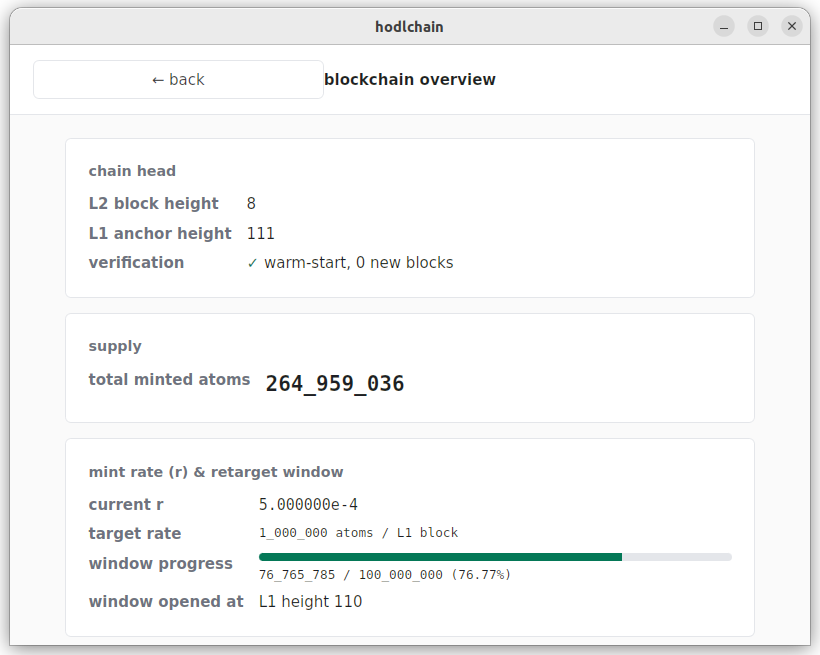
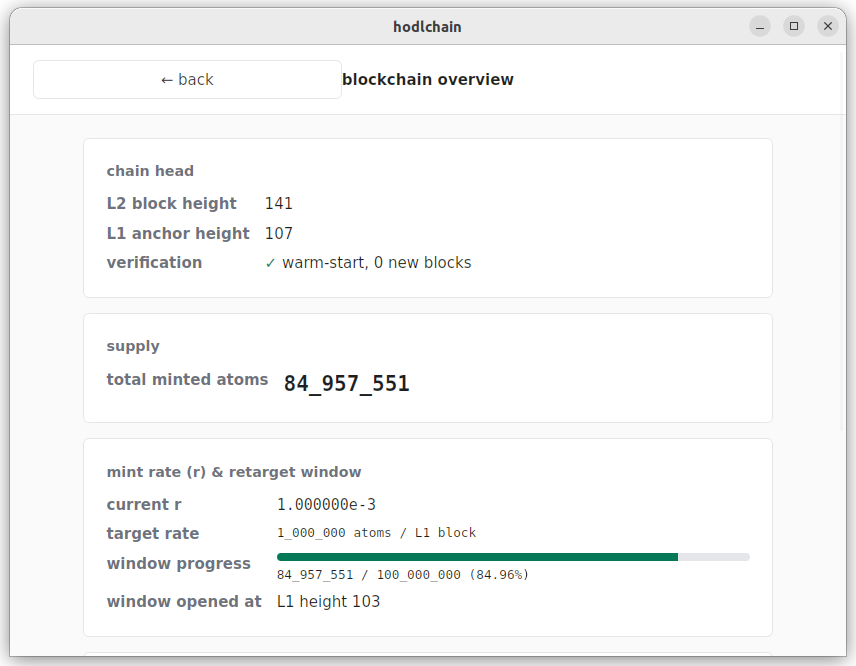
Minor README improvements. Also updated screenshots for new changes.

diff --git a/README.md b/README.md
@@ -1,7 +1,6 @@
 # hodlchain
 
-A proof-of-concept Layer 2 anchored to Bitcoin, exploring a fair-launch
-issuance primitive: users provably commit Bitcoin via a relative
+A proof-of-concept of what is laid out [here](https://github.com/AdamISZ/hodlchain-paper), exploring a fair-issuance primitive anchored to Bitcoin: users provably commit Bitcoin via a relative
 timelock (`OP_CHECKSEQUENCEVERIFY` and/or `OP_CHECKLOCKTIMEVERIFY`) on a taproot output for a chosen
 duration, and the L2 mints new tokens in return — bounded by the value
 locked and superlinear in lock duration, saturating at the locked value
@@ -9,18 +8,18 @@ as the duration approaches infinity. The BTC is recoverable; nothing
 is destroyed.
 
 > **Status**: research POC. Single-sequencer L2 on Bitcoin regtest /
-> signet. Not for mainnet, not audited, not stable. The protocol design
-> is the deliverable; everything in this repo runs but is shaped to
-> teach, not to ship.
+> signet. Not for mainnet, not audited, not stable.
 
 ![hodlchain desktop wallet — blockchain overview tab showing chain head, total minted supply, current r, and retarget-window progress](docs/overviewtab.png)
 
 ## Quick start
 
-- **Run the headless daemons + CLI wallet from source** →
-  [`docs/build-from-source.md`](docs/build-from-source.md)
+Most likely you want the first if just testing.
+
 - **Use the desktop wallet (download release artifact)** →
   [`docs/run-the-gui.md`](docs/run-the-gui.md)
+- **Run the headless daemons + CLI wallet from source** →
+  [`docs/build-from-source.md`](docs/build-from-source.md)
 
 Both Linux and macOS are covered in each doc.
 
@@ -50,8 +49,7 @@ Both Linux and macOS are covered in each doc.
 |                        | (bitcoind + sequencer + node) with start/stop/mine/fund/reset    |
 |                        | subcommands. Persistent datadir. Ships in releases alongside     |
 |                        | the GUI.                                                         |
-| `docs/`                | `design.md`, build instructions, GUI instructions, ZKP           |
-|                        | discussion, paper PDFs.                                          |
+| `docs/`                | `design.md`, build instructions, GUI instructions, etc.          |
 | `scripts/regtest-demo.sh` | End-to-end demo against a temp bitcoind on regtest.           |
 
 ## Build and run
@@ -133,9 +131,5 @@ What's still trusted:
   what they contain. A locally-run electrs eliminates this.
 - Sequencer liveness — single sequencer; no rotation, no fallback.
 - For *mint anonymity*, full nodes also see which L1 UTXO funded a
-  given mint. Future work: anonymous mint via aut-ct ring proofs.
+  given mint. Future work: anonymous minting.
 
-
-## License
-
-Not yet specified. To be determined before any wider release.